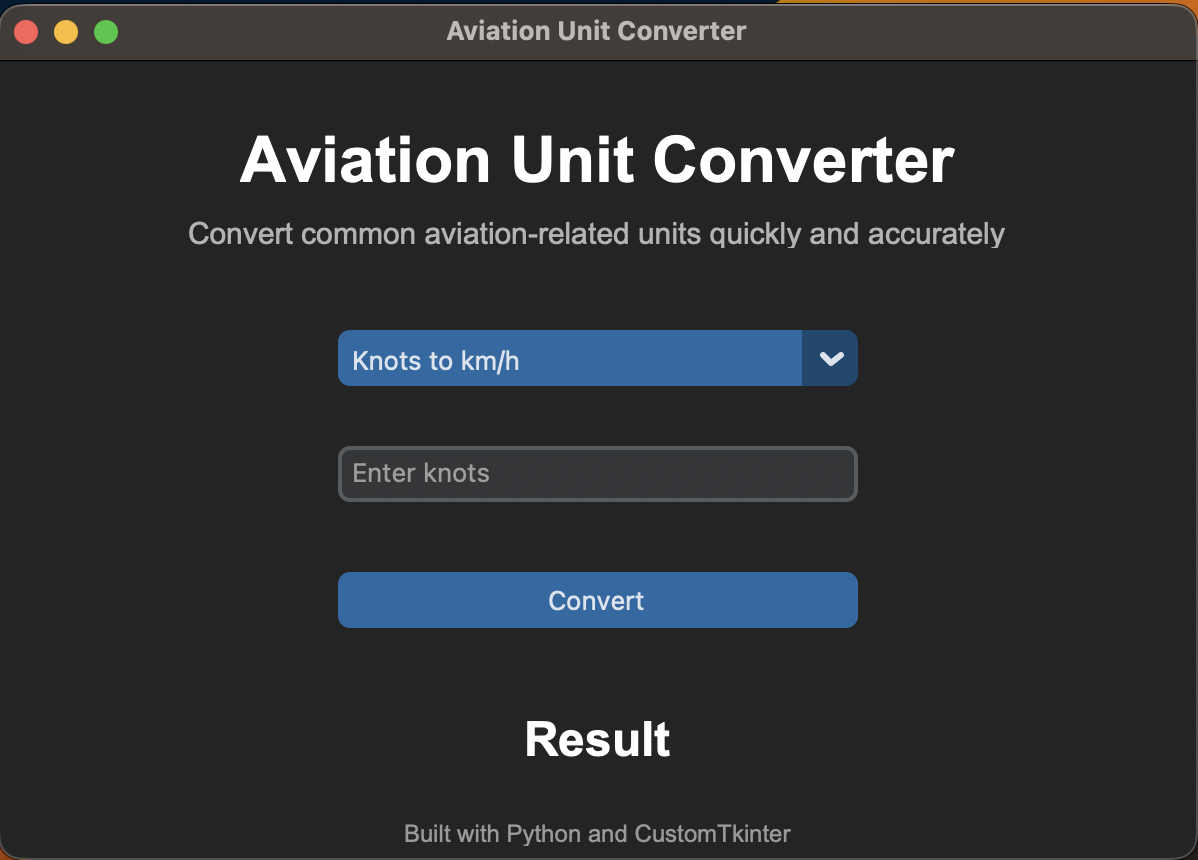
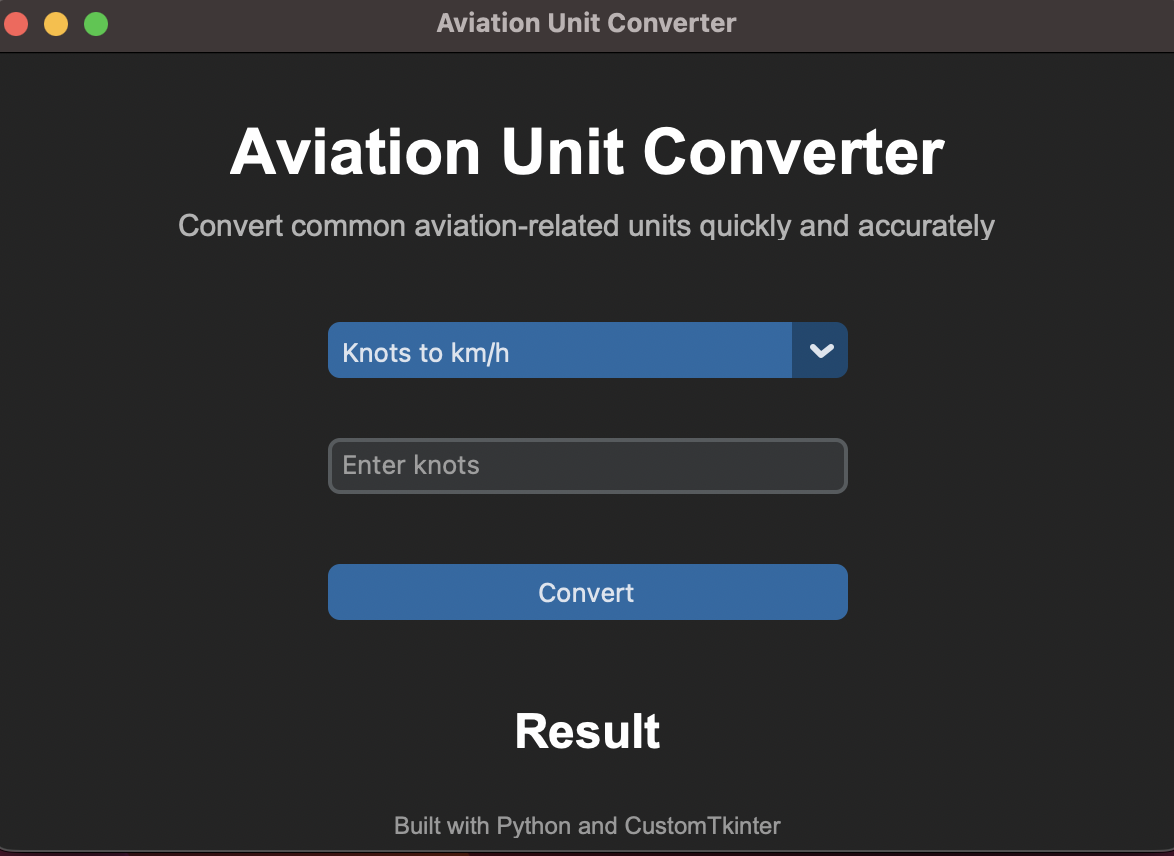
Added README and project screenshot

diff --git a/README.md b/README.md
@@ -35,7 +35,7 @@ I built this project to strengthen my Python, GUI development, and software engi
 1. Clone the repository:
 
 ```bash
-git clone <your-repository-url>
+git clone https://github.com/Malte95/aviation-software-projects.git
 ```
 
 2. Navigate into the project folder:
